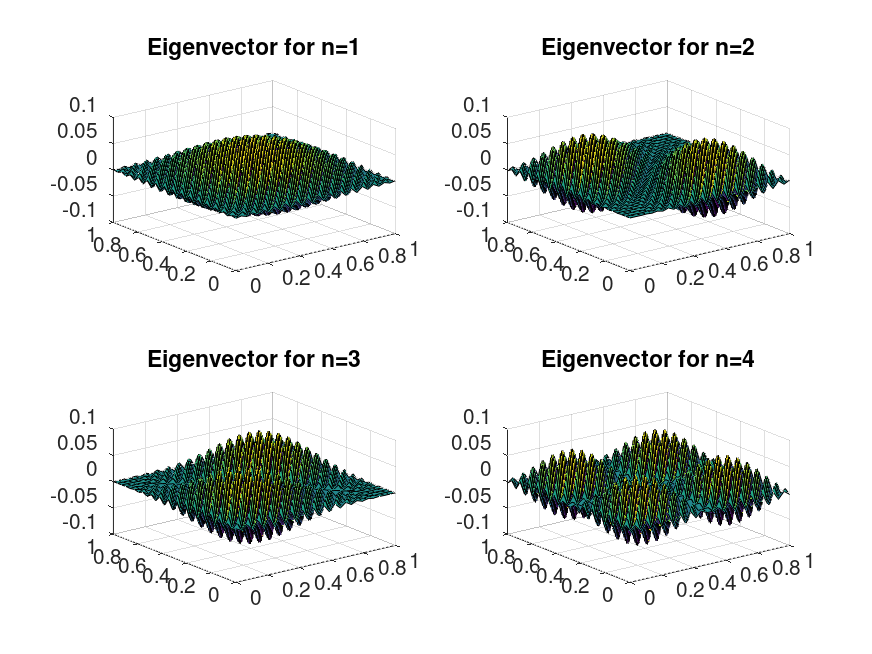
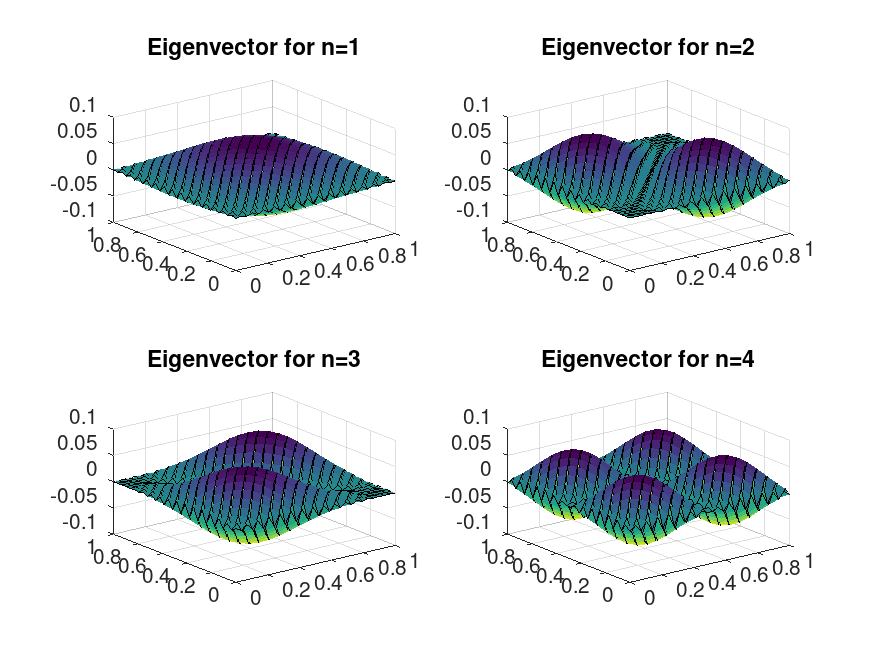
MATH5670: Completed Exam1.

diff --git a/2022/fall/MATH5670_ScientificComputationI/Exam1/problem_1c.tex b/2022/fall/MATH5670_ScientificComputationI/Exam1/problem_1c.tex
@@ -12,5 +12,31 @@ approximated. Plot eigenfunctions for the first few eigenvalues.
     \ \\
     \newpage
 
-    Add 1(c) results here.
+    \noindent The first four eigenvalues (with $(m, n) \in [1, 2] \times [1, 2]$ with $ m,n \in \mathbb{N}$) for this
+    problem with various mesh sizes are listed below:
+
+    \begin{figure}[h]
+        \begin{verbatim}
+               n    lambda_1 lambda_2 lambda_3 lambda_4
+            10.000  -19.605  -48.219  -48.219  -76.833
+            15.000  -19.676  -48.812  -48.812  -77.947
+            20.000  -19.702  -49.036  -49.036  -78.370
+            25.000  -19.715  -49.144  -49.144  -78.573
+            30.000  -19.722  -49.205  -49.205  -78.687
+             Inf    -19.739  -49.348  -49.348  -78.957
+          
+          
+         Least squares fit gives E(h) = 10.3262 * h^1.88408
+        \end{verbatim}
+        \caption{Output of \texttt{problem\_1c.m}}
+    \end{figure}
+
+    Hence we see that the eigenvalues are approximated to nearly $\mathcal{O}(h^2)$. We plot the first four eigenvectors
+    corresponding to these eigenvalues below:
+
+    \begin{figure}[h]
+        \centering
+        \includegraphics[width=0.75\textwidth]{problem_1c_eigenvectors.png}
+        \caption{Eigenvectors for 2D eigenvalue Dirichlet BVP}
+    \end{figure}
 \end{solution}

diff --git a/2022/fall/MATH5670_ScientificComputationI/Exam1/problem_1a.tex b/2022/fall/MATH5670_ScientificComputationI/Exam1/problem_1a.tex
@@ -6,5 +6,29 @@ the first few eigenvalues.
     \ \\
     \newpage
 
-    Add 1(a) results here.
+    \noindent The first four eigenvalues for this problem with various mesh sizes are listed below:
+
+    \begin{figure}[h]
+        \begin{verbatim}
+               n       lambda_1  lambda_2   lambda_3  lambda_4
+             5.0000    -9.6462   -36.0000   -72.0000  -108.0000
+            20.0000    -9.8512   -39.1848   -87.3455  -153.2574
+           100.0000    -9.8688   -39.4657   -88.7620  -157.7101
+           200.0000    -9.8694   -39.4752   -88.8102  -157.8622
+           300.0000    -9.8695   -39.4770   -88.8192  -157.8907
+              Inf      -9.8696   -39.4784   -88.8264  -157.9137   
+         
+            Least squares fit gives E(h) = 5.22593 * h^1.91623
+        \end{verbatim}
+        \caption{Output of \texttt{problem\_1a.m}}
+    \end{figure}
+
+    Hence we see that the eigenvalues are approximated to nearly $\mathcal{O}(h^2)$. We plot the first four eigenvectors
+    corresponding to these eigenvalues below:
+
+    \begin{figure}[h]
+        \centering
+        \includegraphics[width=0.80\textwidth]{problem_1a_eigenvectors.png}
+        \caption{Eigenvectors for 1D eigenvalue Dirichlet BVP}
+    \end{figure}
 \end{solution}

diff --git a/2022/fall/MATH5670_ScientificComputationI/Exam1/problem_1b.tex b/2022/fall/MATH5670_ScientificComputationI/Exam1/problem_1b.tex
@@ -12,5 +12,28 @@ for which eigenvalues cannot be computed explicitly. Plot the first few eigenfun
     \hfill\vfill
 
     \pagebreak
-    Add 1(b) results here.
+    
+    \noindent The first four eigenvalues for this problem with various mesh sizes are listed below:
+
+    \begin{figure}[h]
+        \begin{verbatim}
+              n       lambda_1  lambda_2   lambda_3  lambda_4
+            5.0000    -4.0546   -23.4452   -58.4449   -99.1976
+           50.0000    -4.1146   -24.1170   -63.5285  -122.4306
+          100.0000    -4.1155   -24.1334   -63.6239  -122.7652
+          200.0000    -4.1158   -24.1378   -63.6500  -122.8569
+          300.0000    -4.1158   -24.1387   -63.6550  -122.8747
+          400.0000    -4.1158   -24.1390   -63.6568  -122.8809
+        \end{verbatim}
+        \caption{Output of \texttt{problem\_1b.m}}
+    \end{figure}
+
+    We plot the first four eigenvectors corresponding to these eigenvalues below:
+
+
+    \begin{figure}[h]
+        \centering
+        \includegraphics[width=0.85\textwidth]{problem_1b_eigenvectors.png}
+        \caption{Eigenvectors for 1D eigenvalue mixed BVP}
+    \end{figure}
 \end{solution}

diff --git a/2022/fall/MATH5670_ScientificComputationI/Exam1/problem_2b.tex b/2022/fall/MATH5670_ScientificComputationI/Exam1/problem_2b.tex
@@ -5,7 +5,23 @@ u'(t) = 2(t + 1),\; u(1) = 3
 $$
 
 \begin{solution}\ \\\\
-\ \\
-
-Add 2(b) results here.
+    \ \\
+    For $f(t, U) = 2(t + 1)$, Milne's method on a uniform grid with spacing $k$ becomes:
+    
+    \begin{align*}
+        u_{n+2} - u_n &= k \left[ \frac{2}{3}(t_n + 1) + \frac{8}{3}(t_{n+1} + 1) + \frac{2}{3}(t_{n+2} + 1) \right] \\
+                      &= \frac{k}{3} \left[ (2t_n - 2k + 2) + (8t_n + 8) + (2t_n + 2k + 2) \right] \\
+                      &= 4k(t_n + 4).
+    \end{align*}
+    
+    We implement this in \texttt{problem\_2b.m} with \texttt{MATLAB} on the interval $t = [1, 5]$ with initial condition 
+    $u(1) = 3$ and varying step sizes: \footnote{
+        Note that the analytical solution to this ODE is given by $u(t) = t^2 + 2t$.
+    }
+    
+    \begin{figure}[h]
+        \centering
+        \includegraphics[width=0.85\textwidth]{problem_2b_solution.png}
+        \caption[problem2b_solution]{Implicit Milne method solution to $u' = 2(t+1),\; u(1) = 3$}
+    \end{figure}
 \end{solution}

diff --git a/2022/fall/MATH5670_ScientificComputationI/Exam1/problem_3c.m b/2022/fall/MATH5670_ScientificComputationI/Exam1/problem_3c.m
@@ -1,0 +1,50 @@
+
+clc
+clf
+
+steps = [4, 10, 50, 100];
+
+t0 = 1;
+tf = 5;
+
+u0 = 3;
+
+% True solution, which in this case is known
+%
+u_true = @(t) t.^2 + 2.*t;
+tt = linspace(t0, tf);
+
+f = @(t) 2*(t+1);
+    
+figure(1);
+title("Numerical solution to $u'(t) = 2(t+1)$", 'interpreter', 'latex');
+
+for i=1:length(steps)
+    m = steps(i);
+    k = (tf - t0) / (m+1);
+    t = linspace(t0, tf, m+1);
+    tn = @(n) t0 + n*k;
+
+    % Create internal matrix A 
+    %
+    u = u0 * ones(m+1, 1);
+
+    for j=2:m+1
+        Y1 = u(j-1) + (k/2) * f(tn(j-1) + k/2);
+        u(j) = u(j-1) + k * f(tn(j-1) + k/2);
+    end
+
+
+    subplot(2, 2, i);
+    plot(t, u, 'DisplayName', '$U(t)$');
+    hold on;
+
+    % Alternatively, we can plot against the true solution if known:
+    %
+    plot(tt, u_true(tt), '--', 'DisplayName', '$u_{true}(t)$')
+
+    title(sprintf('$\\Delta t = %3.2f$', k), 'interpreter', 'latex');
+    legend('interpreter', 'latex', 'Location', 'northwest');
+end
+
+print('-dpng', 'problem_3c_solution.png')

diff --git a/2022/fall/MATH5670_ScientificComputationI/Exam1/problem_3c.tex b/2022/fall/MATH5670_ScientificComputationI/Exam1/problem_3c.tex
@@ -6,5 +6,21 @@ $$
 
 \begin{solution}\ \\\\
     \ \\
-    Add 3(c) results here.
+    For $f(t, U) = 2(t + 1)$, our implicit Runge-Kutta method with uniform grid spacing $k$ becomes:
+    
+    \begin{align*}
+        Y_1 &= U^n + \frac{k}{2} \left[2\left(t_n + \frac{k}{2}\right) + 1 \right] \\ 
+        U^{n+1} &= U^n + k\left[2\left(t_n + \frac{k}{2}\right) + 1 \right].
+    \end{align*}
+    
+    We implement this in \texttt{problem\_3c.m} with \texttt{MATLAB} on the interval $t = [1, 5]$ with initial condition 
+    $u(1) = 3$ and varying step sizes: \footnote{
+        Note that the analytical solution to this ODE is given by $u(t) = t^2 + 2t$.
+    }
+    
+    \begin{figure}[h]
+        \centering
+        \includegraphics[width=0.85\textwidth]{problem_3c_solution.png}
+        \caption[problem2b_solution]{Implicit RK solution to $u' = 2(t+1),\; u(1) = 3$}
+    \end{figure}
 \end{solution}

diff --git a/2022/fall/MATH5670_ScientificComputationI/Exam1/problem_1c.m b/2022/fall/MATH5670_ScientificComputationI/Exam1/problem_1c.m
@@ -3,7 +3,7 @@ clc
 
 n_lambdas = 2;
 lambdas = zeros(n_lambdas, n_lambdas*n_lambdas);
-steps = [5, 10, 15, 20, 30];
+steps = [10, 15, 20, 25, 30];
 
 a = 0;
 b = 1;
@@ -83,9 +83,9 @@ for k=1:length(steps)
 end
 
 disp(' ')
-disp('       n    lambda_1  lambda_2  lambda_3  lambda_4')
+disp('      n    lambda_1 lambda_2 lambda_3 lambda_4')
 disp([steps' lambdas])
-fprintf('     %d    %3.4f  %3.4f  %3.4f  %3.4f  %3.4f\n', Inf, -(1^2 + 1^2)*pi^2, -(1^2 + 2^2)*pi^2, -(2^2 + 1^2)*pi^2, -(2^2 + 2^2)*pi^2);
+fprintf('    %d    %3.3f  %3.3f  %3.3f  %3.3f\n', Inf, -(1^2 + 1^2)*pi^2, -(1^2 + 2^2)*pi^2, -(2^2 + 1^2)*pi^2, -(2^2 + 2^2)*pi^2);
 disp(' ')
 
 eig_err = abs(lambdas(:, 1) - (-(1 + 1)*pi^2));

diff --git a/2022/fall/MATH5670_ScientificComputationI/Exam1/problem_4a.tex b/2022/fall/MATH5670_ScientificComputationI/Exam1/problem_4a.tex
@@ -12,6 +12,13 @@ it as a boundary value problem or as an initial value problem.
     \hfill\vfill
     \pagebreak
 
-    Add 4(a) results here.
+    We plot our computed solution $U(x)$ from \texttt{problem\_4a.m} against the built-in \texttt{airy} function
+    (denoted $Ai(x)$) below:
+
+    \begin{figure}[h]
+        \centering
+        \includegraphics[width=0.85\textwidth]{problem_4a_airy_function.png}
+        \caption{Airy equation solution}
+    \end{figure}
     \ \\
 \end{solution}

diff --git a/2022/fall/MATH5670_ScientificComputationI/Exam1/problem_4a.m b/2022/fall/MATH5670_ScientificComputationI/Exam1/problem_4a.m
@@ -1,7 +1,7 @@
 clc
 clf
 
-grid_points = [9];
+grid_points = [49];
 
 x0 = 0;
 x1 = 1;
@@ -54,7 +54,7 @@ for i=1:length(grid_points)
     u_true = airy(0, x_ref);
 
     hold on;
-    plot(x, u, 'DisplayName', '$U(x)$');
+    plot(x, u, 'o', 'DisplayName', '$U(x)$');
     plot(x_ref, u_true, '--', 'DisplayName', '$Ai(x)$');
     title(sprintf('Airy function on $\\tilde{x} = [0, 1]$ with $h=%3.2f$', h), 'interpreter', 'latex')
     legend('interpreter', 'latex');

diff --git a/2022/fall/MATH5670_ScientificComputationI/Exam1/problem_2b.m b/2022/fall/MATH5670_ScientificComputationI/Exam1/problem_2b.m
@@ -61,7 +61,7 @@ for i=1:length(steps)
     plot(tt, u_true(tt), '--', 'DisplayName', '$u_{true}(t)$')
 
     title(sprintf('$\\Delta t = %3.2f$', k), 'interpreter', 'latex');
-    legend('interpreter', 'latex', 'Location', 'southeast');
+    legend('interpreter', 'latex', 'Location', 'northwest');
 end
 
 print('-dpng', 'problem_2b_solution.png')

diff --git a/2022/fall/MATH5670_ScientificComputationI/Exam1/problem_1a.m b/2022/fall/MATH5670_ScientificComputationI/Exam1/problem_1a.m
@@ -50,9 +50,6 @@ for i=1:length(steps)
             title(sprintf('Eigenvector for j=%d', j));
         end
 
-        legend;
-        shg;
-
         print('-dpng', 'problem_1a_eigenvectors.png')
     end
 end
